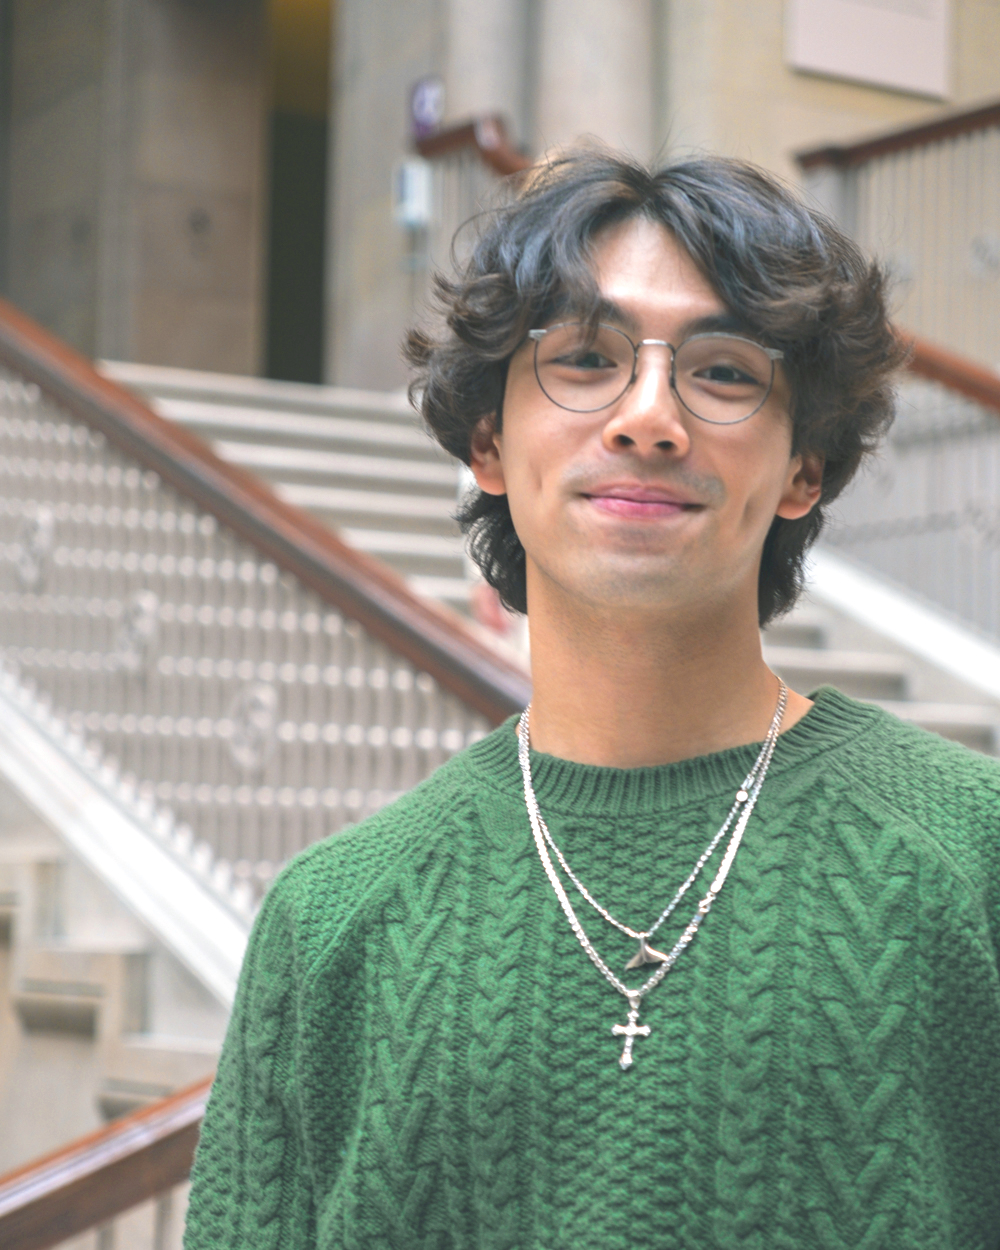
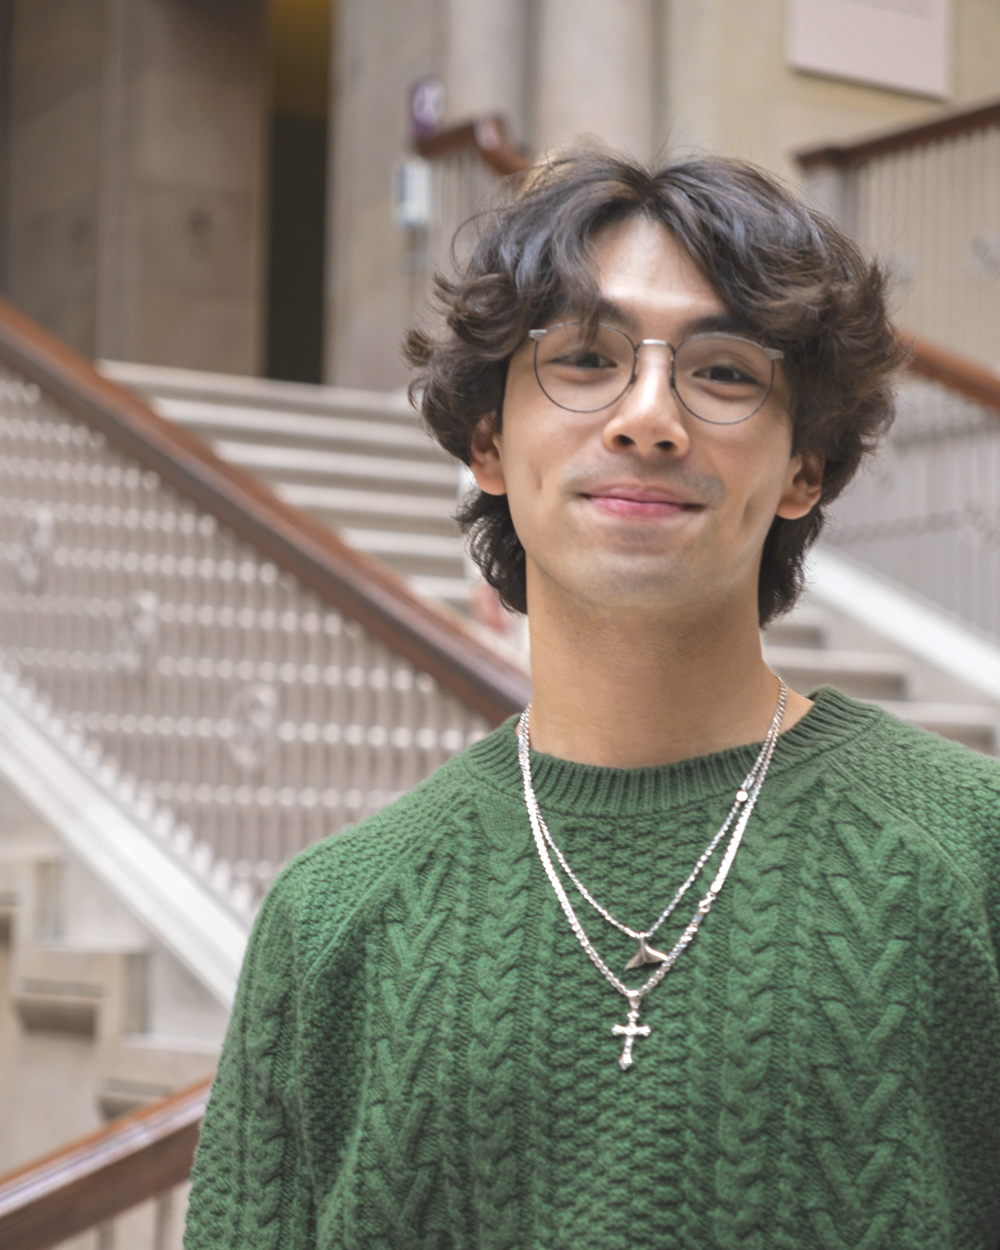
reworked images, fixed bump map and color accuracy

diff --git a/src/components/Faces/IconGridFace.jsx b/src/components/Faces/IconGridFace.jsx
@@ -13,7 +13,7 @@ const createIconsTexture = ({ svgA, svgB, cols, rows, fillRatio }) =>
     const ctx = canvas.getContext('2d');
 
     // Clear canvas.
-    ctx.fillStyle = 'rgba(0, 0, 0, 0)';
+    ctx.fillStyle = 'rgba(255,255,255,0.05)';
     ctx.fillRect(0, 0, canvas.width, canvas.height);
 
     const cellWidth = canvas.width / cols;
@@ -107,9 +107,10 @@ const IconGridFace = ({
     }
     if (materialRef.current) {
       const t = state.clock.getElapsedTime();
-      const shine_base = 0.3;
-      const shine_max = 0.4;
-      materialRef.current.opacity = (shine_base+shine_max)/2 + (shine_base-shine_max)/2 * Math.sin(t * 2);
+      const blink_time = 10;
+      const shine_base = 0.2;
+      const shine_max = 0.5;
+      materialRef.current.opacity = (shine_base+shine_max)/2 + (shine_base-shine_max)/2 * Math.sin(Math.cos(t) * 2* Math.PI / blink_time);
     }
   });
 
@@ -124,6 +125,7 @@ const IconGridFace = ({
           roughness = {0.4}
           clearcoat = {0.1}
           clearcoatRoughness = {0.05}
+          depthTest={true}
         />
       </mesh>
       {/* Pattern layer */}
@@ -135,8 +137,8 @@ const IconGridFace = ({
           bumpScale={0.05}
           metalness={1}
           roughness={0.01}
-          clearcoat = {0.1}
-          clearcoatRoughness = {0.05}
+          // clearcoat = {0.1}
+          // clearcoatRoughness = {0.05}
           transparent
           depthTest={true}
         />

diff --git a/src/components/RoundedCard.jsx b/src/components/RoundedCard.jsx
@@ -35,17 +35,11 @@ const RoundedCard = (props) => {
   const interiorFrontColor = useMemo(() => {
     if (typeof window !== 'undefined') {
       const root = window.getComputedStyle(document.documentElement);
-      return root.getPropertyValue('--color-blue').trim() || '#000000';
+      return root.getPropertyValue('--color-blue').trim() || '#ffffff';
     }
-    return '#000000';
+    return '#ffffff';
   }, []);
-  const interiorBackColor = useMemo(() => {
-    if (typeof window !== 'undefined') {
-      const root = window.getComputedStyle(document.documentElement);
-      return root.getPropertyValue('--color-bone').trim() || '#000000';
-    }
-    return '#000000';
-  }, []);
+  const interiorBackColor = '#ffffff';
 
   const [flipped, setFlipped] = useState(false);
   const [startTime, setStartTime] = useState(0);
@@ -169,8 +163,8 @@ const RoundedCard = (props) => {
         materialParams={{
           metalness: 0,
           roughness: 0.4,
-          clearcoat: 0.1,
-          clearcoatRoughness: 0.05,
+          clearcoat: 1,
+          clearcoatRoughness: 0,
         }}
       />
     </a.group>

diff --git a/src/App.jsx b/src/App.jsx
@@ -15,7 +15,7 @@ export default function App() {
         camera={{ position: [0, 0, 5], near: 0.1, far: 1000 }}
         style={{ width: '100vw', height: '100vh' }}
       >
-        <ambientLight intensity={0.8} />
+        <ambientLight intensity={0.9} />
         <directionalLight
           position={[2, 4, 7.5]}
           intensity={1}
